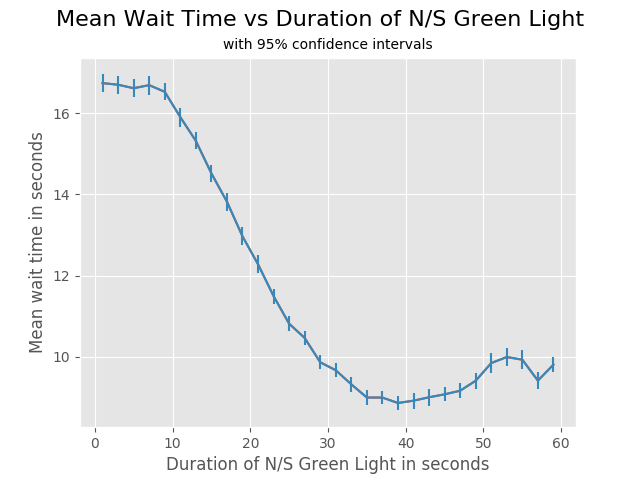
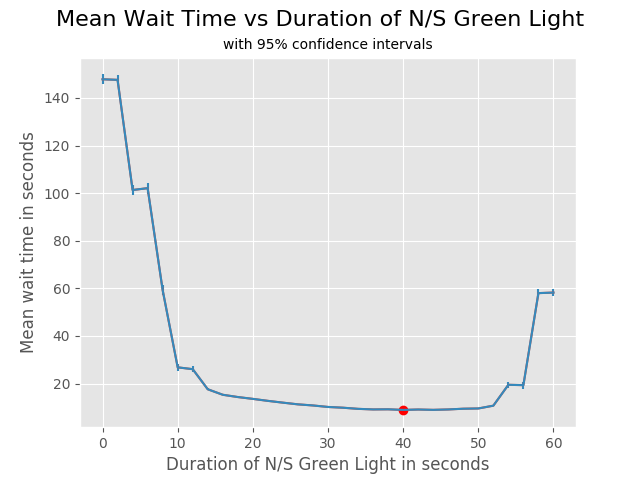
added wait times from cars that are left in the queues after the simulation ends

diff --git a/stoplight.py b/stoplight.py
@@ -56,7 +56,7 @@ def arrive(queue, direction):
         yield env.timeout(next_arrival)
 
 
-def depart(queue, direction, light):
+def depart(queue, direction):
     """
     A function to keep track of the cars which depart from a particular queue.  It calculates how long
     each car took to get through the intersection, and updates the total and max wait times for the simulation.
@@ -66,9 +66,15 @@ def depart(queue, direction, light):
     :return:
     """
     global cur_max_wait
+    global NS_light, EW_light
     clear_delay = 3
 
     while True:
+        # instantiate the light variable based on the queue direction and the current status of that light
+        if direction == 'N' or direction == 'S':
+            light = NS_light
+        else:
+            light = EW_light
         # if the light is red, or there are no cars in the queue, do not start the departure process
         if light == 'red' or queue.qsize() == 0:
             return
@@ -121,7 +127,7 @@ def light_status(direction, queue, red_time, green_time):
 
         # if there are cars in the North or South queue, start the depart process for the queue
         if (direction == 'N' or direction == 'S') and queue.qsize() > 0:
-            env.process(depart(queue=queue, direction=direction, light=NS_light))
+            env.process(depart(queue=queue, direction=direction))
 
         # print statements to show when the NS light changes
         if direction == 'N' or direction == 'S':
@@ -140,7 +146,7 @@ def light_status(direction, queue, red_time, green_time):
 
         # if there are cars in the East or West queue, start the depart process for the queue
         if (direction == 'E' or direction == 'W') and queue.qsize() > 0:
-            env.process(depart(queue=queue, direction=direction, light=EW_light))
+            env.process(depart(queue=queue, direction=direction))
 
         # print statements to show when the EW light changes
         if direction == 'W' or direction == 'E':
@@ -176,18 +182,6 @@ def run_sim(NS_green_time, total_time):
 
     env.run(until=total_time)
 
-    if print_sim:
-        print('\n\n*** Summary ***\n\n')
-        print('Green light time:', NS_green_time)
-        print('Mean waiting time: %.3f seconds'
-          % (Stats['waiting_time'] / float(Stats['car_count'])))
-
-        print('Max waiting time: %.3f seconds'
-          % Stats['max_wait_time'])
-
-        print('\n')
-        for k,v in Stats.items():
-            print(k,':',v)
 
 def calculate_ci(sample_vals):
     """
@@ -217,10 +211,14 @@ def visualize_data(x, y, conf_intervals, metric):
     plt.style.use('ggplot')
     plt.plot(x, y)
     plt.errorbar(x, y, yerr=[(top-bot)/2 for top,bot in conf_intervals])
+    min_idx = y.index(min(y))
+    plt.plot(x[min_idx], y[min_idx], 'ro')
     plt.suptitle("{} Wait Time vs Duration of N/S Green Light".format(metric), fontsize=16)
     plt.title("with 95% confidence intervals", fontsize=10)
     plt.xlabel("Duration of N/S Green Light in seconds")
     plt.ylabel("{} wait time in seconds".format(metric))
+
+
     plt.interactive(False)
     plt.savefig('./{}_plot.png'.format(metric))
     plt.show()
@@ -230,6 +228,7 @@ def visualize_data(x, y, conf_intervals, metric):
 
 if __name__ == '__main__':
     start = time.time()
+    total_time = 600
     # instantiate collector variables to compute summary stats
     green_times = []
     sample_means = []
@@ -243,7 +242,7 @@ if __name__ == '__main__':
     print('N =', N)
     # iterate over increasing green_time parameter values between 1 and 59 seconds
     # (red light time values are always 60 seconds - green_time value)
-    for green_time in range(1, 60, 2):
+    for green_time in range(0, 61, 2):
         # instantiate mean and max collectors for each parameter value
         means = []
         maxs = []
@@ -276,7 +275,40 @@ if __name__ == '__main__':
             Stats['green_count'] = 0
 
             # run each simulation process for 10 minutes
-            run_sim(NS_green_time=green_time, total_time=600)
+            run_sim(NS_green_time=green_time, total_time=total_time)
+
+            # empty out the queues that still have cars in them
+            # and add their wait times to the Stats dictionary
+            for queue in [N_queue, S_queue, E_queue, W_queue]:
+                for car in range(queue.qsize()):
+                    car_position, time_arrived = queue.get()
+                    # calculate the time the car was waiting at the end of the simulation
+                    time_waiting = total_time - time_arrived
+
+                    # if the time the car spent in the intersection is larger
+                    # than the current max time, set this time as the new max
+                    if time_waiting > Stats['max_wait_time']:
+                        Stats['max_wait_time'] = time_waiting
+
+                    # update the values for the count of cars who waited in a queue, and the amount of time they waited
+                    Stats['cars_waiting'] += 1
+                    Stats['waiting_time'] += time_waiting
+
+            # print out summary stats for the simulation
+            if print_sim:
+                print('\n\n*** Summary ***\n\n')
+
+                print('Green light time:', green_time)
+                print('Mean waiting time: %.3f seconds'
+                      % (Stats['waiting_time'] / float(Stats['car_count'])))
+
+                print('Max waiting time: %.3f seconds'
+                      % Stats['max_wait_time'])
+
+                print('\n')
+                for k, v in Stats.items():
+                    print(k, ':', v)
+
 
             # compute and store the average time to clear the intersection for this simulation
             means.append(Stats['waiting_time'] / float(Stats['car_count']))
